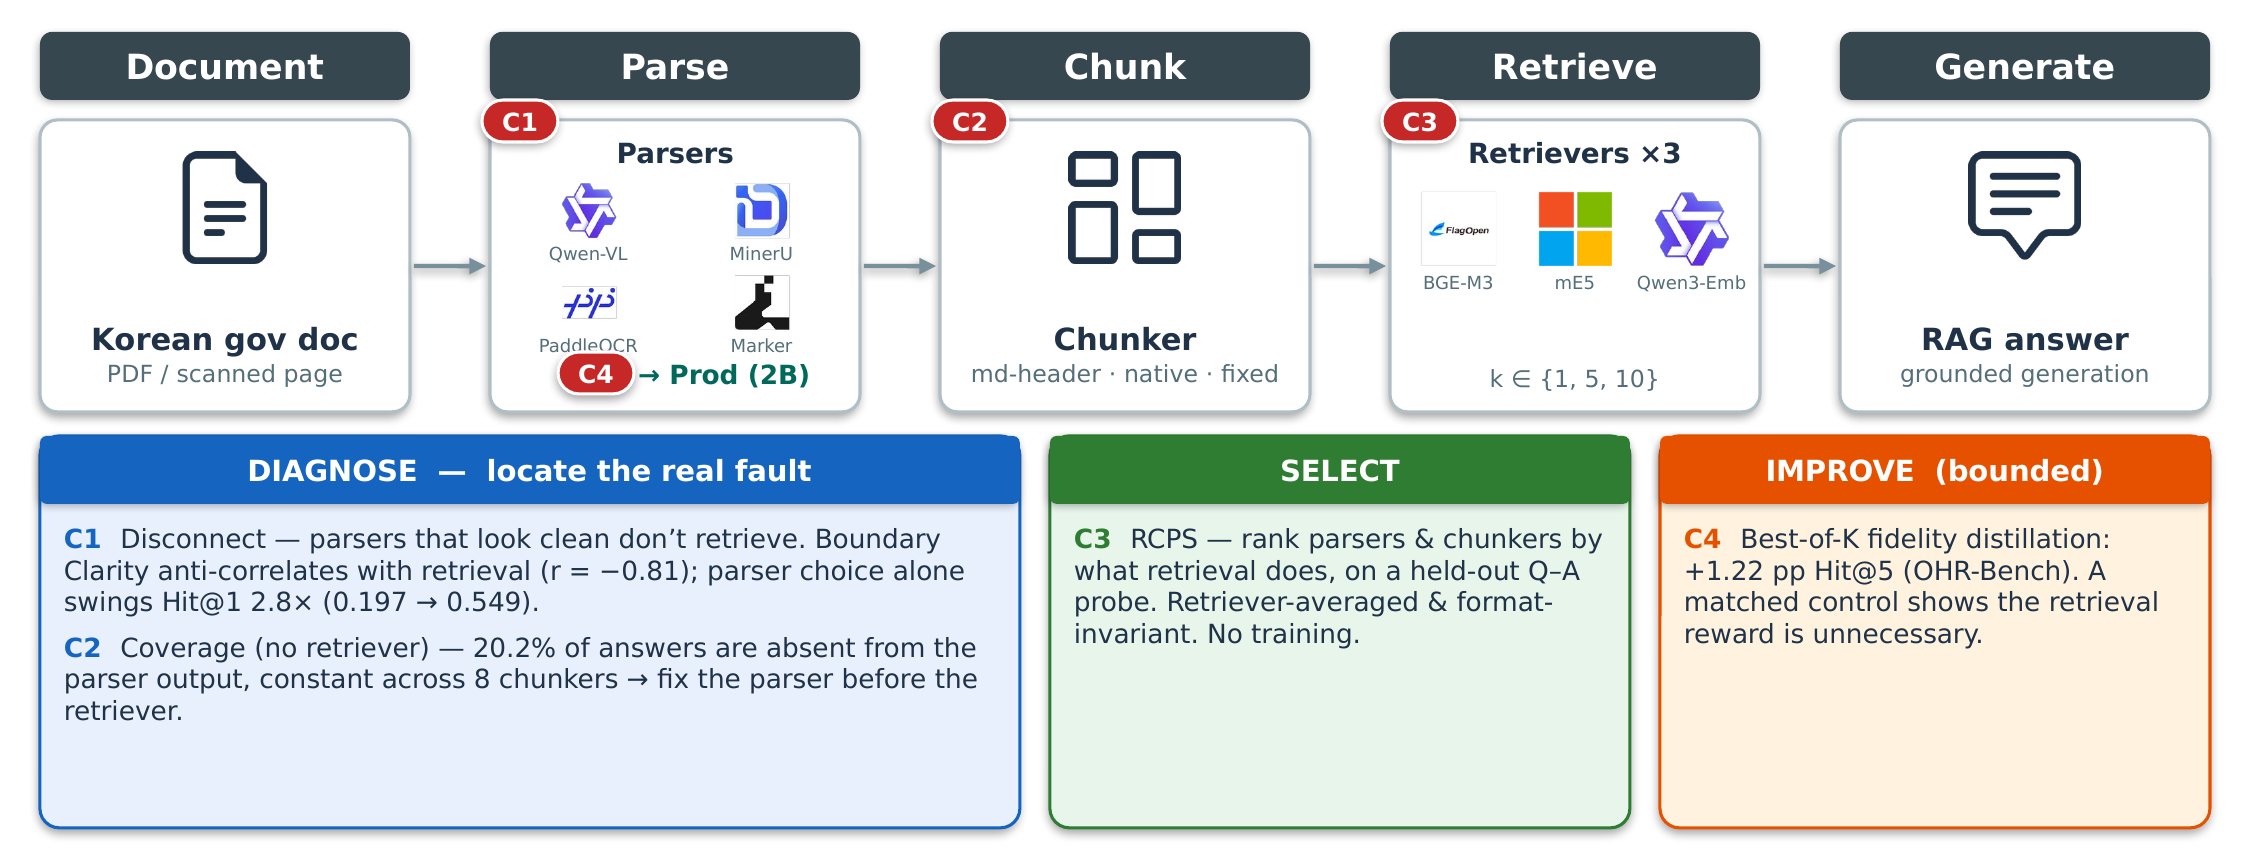
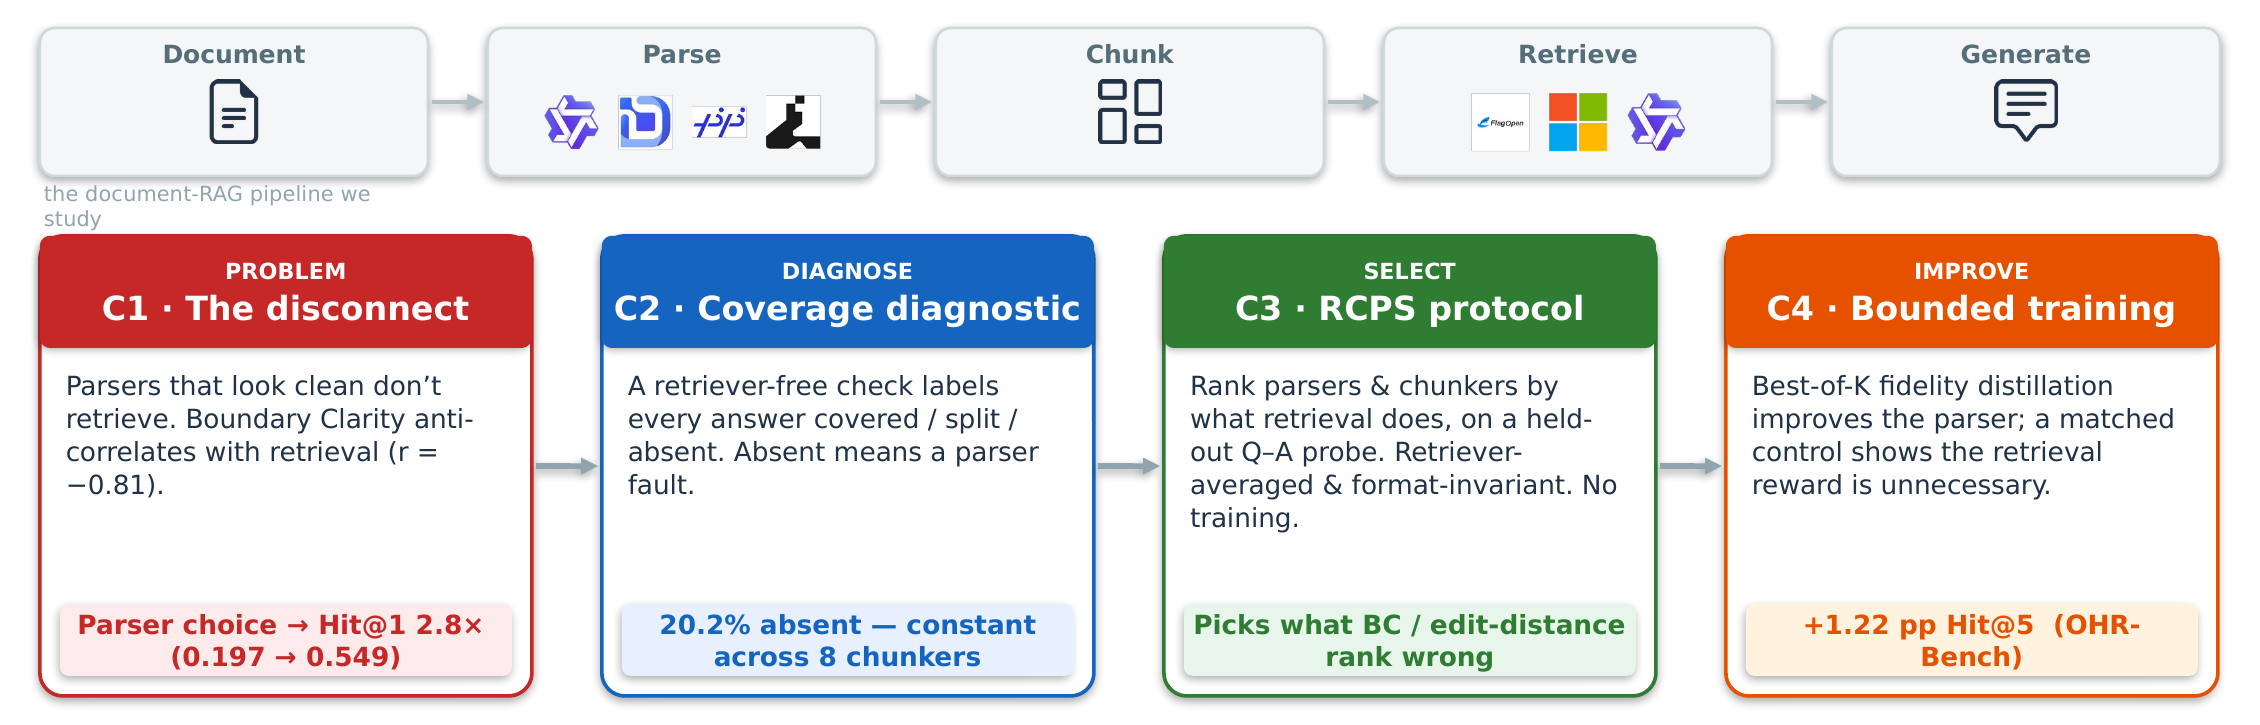
fig: redesign Figure 1 overview — four self-titled C1-C4 cards (arc)
Replace the pipeline-badge overlay (cryptic "C4" tag that covered the PaddleOCR
label and conveyed nothing) with the paper's actual narrative arc:
PROBLEM (C1) → DIAGNOSE (C2) → SELECT (C3) → IMPROVE (C4). Each contribution is
now a self-titled card (verb + name + one-line description + headline stat), so
every Cn reads on its own. The RAG pipeline + model logos drop to a thin grey
context ribbon on top ("the document-RAG pipeline we study"). No badges, no
bottom band. Calibri. Regenerated by scripts/figures/make_overview_pptx.py.

diff --git a/scripts/figures/make_overview_pptx.py b/scripts/figures/make_overview_pptx.py
@@ -1,10 +1,13 @@
-"""Figure 1 (overview) — the document-RAG pipeline and where C1-C4 act.
+"""Figure 1 (overview) — the RADP story as a four-move arc (C1->C4).
 
-Editable PowerPoint deliverable: phase band (Document->Generate) + component
-boxes (real model brand logos for the Parser / Retriever stages, clean icons
-elsewhere) + C1-C4 numbered badges placed at the stage each contribution acts
-on + three colour-coded zones (Diagnose / Select / Improve) + a bottom
-RCPS-protocol method band.
+Editable PowerPoint deliverable.
+  Top: a thin, grey RAG-pipeline context ribbon (Document -> Parse -> Chunk ->
+       Retrieve -> Generate) carrying the real model logos at the Parser and
+       Retriever stages — this is the system we study.
+  Below: four self-titled contribution cards forming the paper's arc
+       PROBLEM (C1) -> DIAGNOSE (C2) -> SELECT (C3) -> IMPROVE (C4),
+       each with a name, a one-line description, and the headline number,
+       so each Cn reads on its own (no cryptic badges).
 
 Brand logos: official GitHub org avatars (Qwen, OpenDataLab/MinerU, PaddlePaddle,
 Datalab/Marker, FlagOpen/BGE, Microsoft/mE5), trimmed + squared under
@@ -27,16 +30,19 @@ ICON = HERE / "icons"
 LOGO = HERE / "icons" / "logos" / "norm"
 OUT = HERE.parent.parent / "paper" / "figures" / "fig1_overview.pptx"
 
-SLATE = "37474F"
-GREY_LN = "B0BEC5"
-GREY_TX = "546E7A"
-ARROW = "78909C"
-RED = "C62828"
-DIAG_H, DIAG_F = "1565C0", "E8F0FE"
-SEL_H, SEL_F = "2E7D32", "E7F5EA"
-IMP_H, IMP_F = "E65100", "FFF3E0"
-FOOT_F = "ECEFF1"
+FONT = "Calibri"
 INK = "1F3247"
+GREY_TX = "546E7A"
+ARROW = "90A4AE"
+RIB_F, RIB_LN = "F4F6F7", "CFD8DC"
+
+# arc colours: problem -> diagnose -> select -> improve
+CARDS_COLOR = {
+    "C1": ("C62828", "FDEBEC"),   # PROBLEM  (red)
+    "C2": ("1565C0", "E8F0FE"),   # DIAGNOSE (blue)
+    "C3": ("2E7D32", "E7F5EA"),   # SELECT   (green)
+    "C4": ("E65100", "FFF3E0"),   # IMPROVE  (amber)
+}
 
 
 def C(h):
@@ -71,20 +77,23 @@ def set_rich(shape, paras, anchor=MSO_ANCHOR.MIDDLE, wrap=True, m=0.06, space_af
         p.alignment = para.get("align", PP_ALIGN.CENTER)
         p.space_after = Pt(para.get("space_after", space_after))
         p.space_before = Pt(0)
+        ls = para.get("line_spacing")
+        if ls:
+            p.line_spacing = ls
         for (txt, size, bold, color) in para["runs"]:
             r = p.add_run(); r.text = txt
             r.font.size = Pt(size); r.font.bold = bold
-            r.font.name = "Calibri"; r.font.color.rgb = C(color)
+            r.font.name = FONT; r.font.color.rgb = C(color)
     return tf
 
 
-def textbox(slide, x, y, w, h, paras, anchor=MSO_ANCHOR.TOP, m=0.03, space_after=4.0):
+def textbox(slide, x, y, w, h, paras, anchor=MSO_ANCHOR.TOP, m=0.03, space_after=3.0):
     tb = slide.shapes.add_textbox(Inches(x), Inches(y), Inches(w), Inches(h))
     set_rich(tb, paras, anchor=anchor, m=m, space_after=space_after)
     return tb
 
 
-def arrow(slide, x1, y1, x2, y2, color=ARROW, w=1.6):
+def arrow(slide, x1, y1, x2, y2, color=ARROW, w=2.0):
     cn = slide.shapes.add_connector(MSO_CONNECTOR.STRAIGHT,
                                     Inches(x1), Inches(y1), Inches(x2), Inches(y2))
     cn.line.color.rgb = C(color); cn.line.width = Pt(w)
@@ -93,132 +102,94 @@ def arrow(slide, x1, y1, x2, y2, color=ARROW, w=1.6):
     return cn
 
 
-def badge(slide, x, y, text, w=0.38, h=0.21, fs=9):
-    sp = rrect(slide, x, y, w, h, RED, line="FFFFFF", lw=1.1, radius=0.5)
-    set_rich(sp, [{"runs": [(text, fs, True, "FFFFFF")], "align": PP_ALIGN.CENTER}],
-             anchor=MSO_ANCHOR.MIDDLE, m=0.0)
-    return sp
+def picture(slide, path, x, y, w, h):
+    slide.shapes.add_picture(str(path), Inches(x), Inches(y), Inches(w), Inches(h))
 
 
-def logo_tile(slide, path, x, y, w, h, name, name_sz=6.5):
-    lsz = min(w * 0.92, h * 0.66)
-    slide.shapes.add_picture(str(path), Inches(x + (w - lsz) / 2), Inches(y),
-                             Inches(lsz), Inches(lsz))
-    textbox(slide, x, y + lsz + 0.01, w, h - lsz - 0.01,
-            [{"runs": [(name, name_sz, False, GREY_TX)], "align": PP_ALIGN.CENTER}],
-            anchor=MSO_ANCHOR.TOP, m=0.0)
-
-
-def icon_box(slide, i, xs, bw, cb_y, cb_h, icon, label, detail):
-    rrect(slide, xs[i], cb_y, bw, cb_h, "FFFFFF", line=GREY_LN, lw=1.1, radius=0.06)
-    isz = 0.56
-    slide.shapes.add_picture(str(ICON / icon),
-                             Inches(xs[i] + bw / 2 - isz / 2), Inches(cb_y + 0.16),
-                             Inches(isz), Inches(isz))
-    textbox(slide, xs[i], cb_y + cb_h - 0.50, bw, 0.46, [
-        {"runs": [(label, 11, True, INK)], "align": PP_ALIGN.CENTER, "space_after": 1.0},
-        {"runs": [(detail, 8.5, False, GREY_TX)], "align": PP_ALIGN.CENTER},
-    ], anchor=MSO_ANCHOR.TOP, m=0.05)
+def logo_row(slide, logos, x, y, w, h, sz, gap=0.07):
+    n = len(logos)
+    total = n * sz + (n - 1) * gap
+    sx = x + (w - total) / 2
+    yy = y + (h - sz) / 2
+    for i, lg in enumerate(logos):
+        picture(slide, LOGO / lg, sx + i * (sz + gap), yy, sz, sz)
 
 
 def main():
     prs = Presentation()
     prs.slide_width = Inches(11.3)
-    prs.slide_height = Inches(4.3)
+    prs.slide_height = Inches(3.62)
     slide = prs.slides.add_slide(prs.slide_layouts[6])
 
-    xs = [0.2 + 2.25 * i for i in range(5)]
-    bw = 1.85
-    ph_y, ph_h = 0.16, 0.34
-    cb_y, cb_h = 0.60, 1.46
-
-    phases = ["Document", "Parse", "Chunk", "Retrieve", "Generate"]
-    for i, name in enumerate(phases):
-        hp = rrect(slide, xs[i], ph_y, bw, ph_h, SLATE, radius=0.18)
-        set_rich(hp, [{"runs": [(name, 12.5, True, "FFFFFF")], "align": PP_ALIGN.CENTER}],
-                 anchor=MSO_ANCHOR.MIDDLE, m=0.02)
-
-    # generic-icon stages
-    icon_box(slide, 0, xs, bw, cb_y, cb_h, "document.png", "Korean gov doc", "PDF / scanned page")
-    icon_box(slide, 2, xs, bw, cb_y, cb_h, "chunk.png", "Chunker", "md-header · native · fixed")
-    icon_box(slide, 4, xs, bw, cb_y, cb_h, "answer.png", "RAG answer", "grounded generation")
-
-    # ---- Parse stage: real parser logos (2x2) -> Prod 2B ----
-    px = xs[1]
-    rrect(slide, px, cb_y, bw, cb_h, "FFFFFF", line=GREY_LN, lw=1.1, radius=0.06)
-    textbox(slide, px, cb_y + 0.05, bw, 0.22,
-            [{"runs": [("Parsers", 10, True, INK)], "align": PP_ALIGN.CENTER}],
-            anchor=MSO_ANCHOR.MIDDLE, m=0.02)
-    plogos = [("qwen.png", "Qwen-VL"), ("mineru.png", "MinerU"),
-              ("paddle.png", "PaddleOCR"), ("marker.png", "Marker")]
-    gx, gy, gw, gh = px + 0.06, cb_y + 0.30, (bw - 0.12) / 2, 0.46
-    for k, (lg, nm) in enumerate(plogos):
-        r, c = divmod(k, 2)
-        logo_tile(slide, LOGO / lg, gx + c * gw, gy + r * gh, gw, gh, nm)
-    badge(slide, px + 0.34, cb_y + cb_h - 0.30, "C4")
-    textbox(slide, px + 0.74, cb_y + cb_h - 0.31, bw - 0.80, 0.24,
-            [{"runs": [("→ Prod (2B)", 9.5, True, "00695C")], "align": PP_ALIGN.LEFT}],
-            anchor=MSO_ANCHOR.MIDDLE, m=0.0)
-
-    # ---- Retrieve stage: real retriever logos (row of 3) ----
-    rx = xs[3]
-    rrect(slide, rx, cb_y, bw, cb_h, "FFFFFF", line=GREY_LN, lw=1.1, radius=0.06)
-    textbox(slide, rx, cb_y + 0.05, bw, 0.22,
-            [{"runs": [("Retrievers ×3", 10, True, INK)], "align": PP_ALIGN.CENTER}],
-            anchor=MSO_ANCHOR.MIDDLE, m=0.02)
-    rlogos = [("bge.png", "BGE-M3"), ("me5.png", "mE5"), ("qwen.png", "Qwen3-Emb")]
-    rw = (bw - 0.10) / 3
-    for k, (lg, nm) in enumerate(rlogos):
-        logo_tile(slide, LOGO / lg, rx + 0.05 + k * rw, cb_y + 0.34, rw, 0.62, nm)
-    textbox(slide, rx, cb_y + cb_h - 0.30, bw, 0.26,
-            [{"runs": [("k ∈ {1, 5, 10}", 8.5, False, GREY_TX)], "align": PP_ALIGN.CENTER}],
-            anchor=MSO_ANCHOR.MIDDLE, m=0.02)
-
-    # pipeline arrows
-    ay = cb_y + cb_h / 2
+    # ============================ context ribbon ============================
+    rb_y, rb_h = 0.14, 0.74
+    rxs = [0.2 + 2.24 * i for i in range(5)]
+    rbw = 1.94
+    stages = ["Document", "Parse", "Chunk", "Retrieve", "Generate"]
+    for i, name in enumerate(stages):
+        rrect(slide, rxs[i], rb_y, rbw, rb_h, RIB_F, line=RIB_LN, lw=0.9, radius=0.10)
+        textbox(slide, rxs[i], rb_y + 0.04, rbw, 0.18,
+                [{"runs": [(name, 9, True, GREY_TX)], "align": PP_ALIGN.CENTER}],
+                anchor=MSO_ANCHOR.MIDDLE, m=0.02)
+    cy = rb_y + 0.24
+    ch = rb_h - 0.28
+    picture(slide, ICON / "document.png", rxs[0] + rbw / 2 - 0.16, cy + 0.02, 0.32, 0.32)
+    logo_row(slide, ["qwen.png", "mineru.png", "paddle.png", "marker.png"],
+             rxs[1], cy, rbw, ch, 0.30)
+    picture(slide, ICON / "chunk.png", rxs[2] + rbw / 2 - 0.16, cy + 0.02, 0.32, 0.32)
+    logo_row(slide, ["bge.png", "me5.png", "qwen.png"], rxs[3], cy, rbw, ch, 0.32)
+    picture(slide, ICON / "answer.png", rxs[4] + rbw / 2 - 0.16, cy + 0.02, 0.32, 0.32)
+    ry = rb_y + rb_h / 2
     for i in range(4):
-        arrow(slide, xs[i] + bw + 0.02, ay, xs[i + 1] - 0.02, ay)
+        arrow(slide, rxs[i] + rbw + 0.02, ry, rxs[i + 1] - 0.02, ry, color="B0BEC5", w=1.4)
+    textbox(slide, 0.2, rb_y + rb_h + 0.005, rbw, 0.16,
+            [{"runs": [("the document-RAG pipeline we study", 7.5, False, "90A4AE")],
+              "align": PP_ALIGN.LEFT}], anchor=MSO_ANCHOR.TOP, m=0.02)
 
-    # contribution badges at the acting stage (C4 sits by the fine-tune line above)
-    by = cb_y - 0.10
-    badge(slide, xs[1] - 0.04, by, "C1")
-    badge(slide, xs[2] - 0.04, by, "C2")
-    badge(slide, xs[3] - 0.04, by, "C3")
-
-    # ---- zones ----
-    zy, zh, zhh = 2.18, 1.96, 0.34
-
-    def zone(x, w, hcol, fcol, title, body):
-        rrect(slide, x, zy, w, zh, fcol, line=hcol, lw=1.1, radius=0.05)
-        hd = rrect(slide, x, zy, w, zhh, hcol, radius=0.10)
-        set_rich(hd, [{"runs": [(title, 10.5, True, "FFFFFF")], "align": PP_ALIGN.CENTER}],
+    # ============================ contribution arc ============================
+    cxs = [0.2 + 2.81 * i for i in range(4)]
+    cw = 2.46
+    cd_y, cd_h = 1.18, 2.30
+    hh = 0.56
+    cards = [
+        ("C1", "PROBLEM", "C1 · The disconnect",
+         "Parsers that look clean don’t retrieve. Boundary Clarity "
+         "anti-correlates with retrieval (r = −0.81).",
+         "Parser choice → Hit@1 2.8×  (0.197 → 0.549)"),
+        ("C2", "DIAGNOSE", "C2 · Coverage diagnostic",
+         "A retriever-free check labels every answer covered / split / "
+         "absent. Absent means a parser fault.",
+         "20.2% absent — constant across 8 chunkers"),
+        ("C3", "SELECT", "C3 · RCPS protocol",
+         "Rank parsers & chunkers by what retrieval does, on a held-out "
+         "Q–A probe. Retriever-averaged & format-invariant. No training.",
+         "Picks what BC / edit-distance rank wrong"),
+        ("C4", "IMPROVE", "C4 · Bounded training",
+         "Best-of-K fidelity distillation improves the parser; a matched "
+         "control shows the retrieval reward is unnecessary.",
+         "+1.22 pp Hit@5  (OHR-Bench)"),
+    ]
+    for i, (key, verb, title, desc, stat) in enumerate(cards):
+        hcol, fcol = CARDS_COLOR[key]
+        x = cxs[i]
+        rrect(slide, x, cd_y, cw, cd_h, "FFFFFF", line=hcol, lw=1.3, radius=0.05)
+        hd = rrect(slide, x, cd_y, cw, hh, hcol, radius=0.09)
+        set_rich(hd, [
+            {"runs": [(verb, 8, True, "FFFFFF")], "align": PP_ALIGN.CENTER, "space_after": 1.0},
+            {"runs": [(title, 12, True, "FFFFFF")], "align": PP_ALIGN.CENTER},
+        ], anchor=MSO_ANCHOR.MIDDLE, m=0.04)
+        # description
+        textbox(slide, x + 0.10, cd_y + hh + 0.07, cw - 0.20, cd_h - hh - 0.55,
+                [{"runs": [(desc, 9.5, False, INK)], "align": PP_ALIGN.LEFT,
+                  "line_spacing": 1.04}], anchor=MSO_ANCHOR.TOP, m=0.03)
+        # headline stat strip
+        st = rrect(slide, x + 0.10, cd_y + cd_h - 0.46, cw - 0.20, 0.36, fcol, radius=0.12)
+        set_rich(st, [{"runs": [(stat, 9.5, True, hcol)], "align": PP_ALIGN.CENTER}],
                  anchor=MSO_ANCHOR.MIDDLE, m=0.03)
-        textbox(slide, x + 0.08, zy + zhh + 0.05, w - 0.16, zh - zhh - 0.12,
-                body, anchor=MSO_ANCHOR.TOP, m=0.04, space_after=5.0)
 
-    def cline(tag, tagcol, text):
-        return {"align": PP_ALIGN.LEFT,
-                "runs": [(tag + "  ", 9.5, True, tagcol), (text, 9.5, False, INK)]}
-
-    zone(0.2, 4.9, DIAG_H, DIAG_F, "DIAGNOSE  —  locate the real fault", [
-        cline("C1", DIAG_H,
-              "Disconnect — parsers that look clean don’t retrieve. Boundary Clarity "
-              "anti-correlates with retrieval (r = −0.81); parser choice alone swings "
-              "Hit@1 2.8× (0.197 → 0.549)."),
-        cline("C2", DIAG_H,
-              "Coverage (no retriever) — 20.2% of answers are absent from the parser "
-              "output, constant across 8 chunkers → fix the parser before the retriever."),
-    ])
-    zone(5.25, 2.90, SEL_H, SEL_F, "SELECT", [
-        cline("C3", SEL_H,
-              "RCPS — rank parsers & chunkers by what retrieval does, on a held-out "
-              "Q–A probe. Retriever-averaged & format-invariant. No training."),
-    ])
-    zone(8.30, 2.75, IMP_H, IMP_F, "IMPROVE  (bounded)", [
-        cline("C4", IMP_H,
-              "Best-of-K fidelity distillation: +1.22 pp Hit@5 (OHR-Bench). A matched "
-              "control shows the retrieval reward is unnecessary."),
-    ])
+    ay = cd_y + cd_h / 2
+    for i in range(3):
+        arrow(slide, cxs[i] + cw + 0.02, ay, cxs[i + 1] - 0.02, ay)
 
     OUT.parent.mkdir(parents=True, exist_ok=True)
     prs.save(str(OUT))
